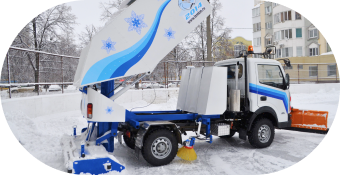
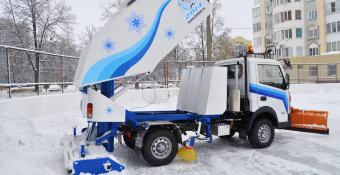
add container for image

diff --git a/src/scss/components/reviews.scss b/src/scss/components/reviews.scss
@@ -98,6 +98,10 @@
     &_item_video {
         // border-radius: 50%;
     }
+    &_wrapper{
+        border-radius: 999px;
+        overflow: hidden;
+    }
 
     .swiper-button-prev,
     .swiper-button-next {
